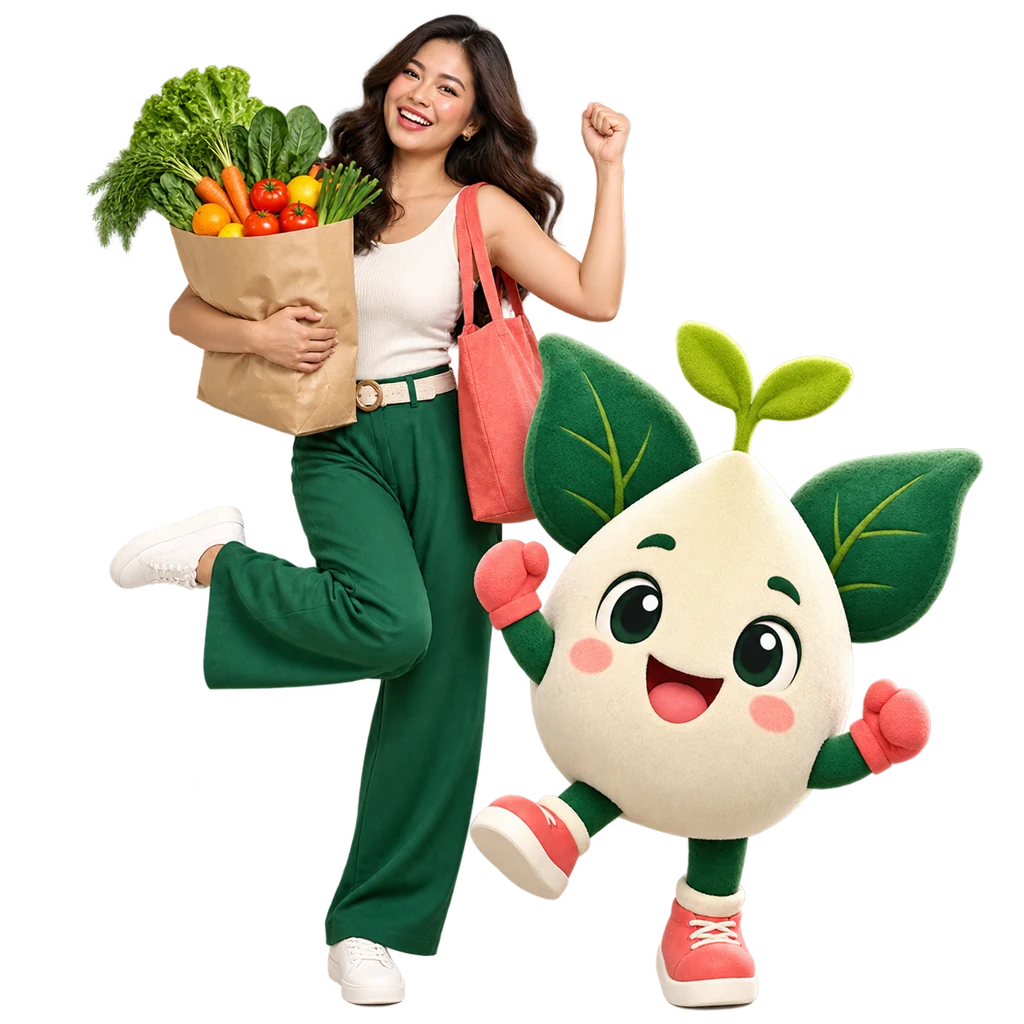
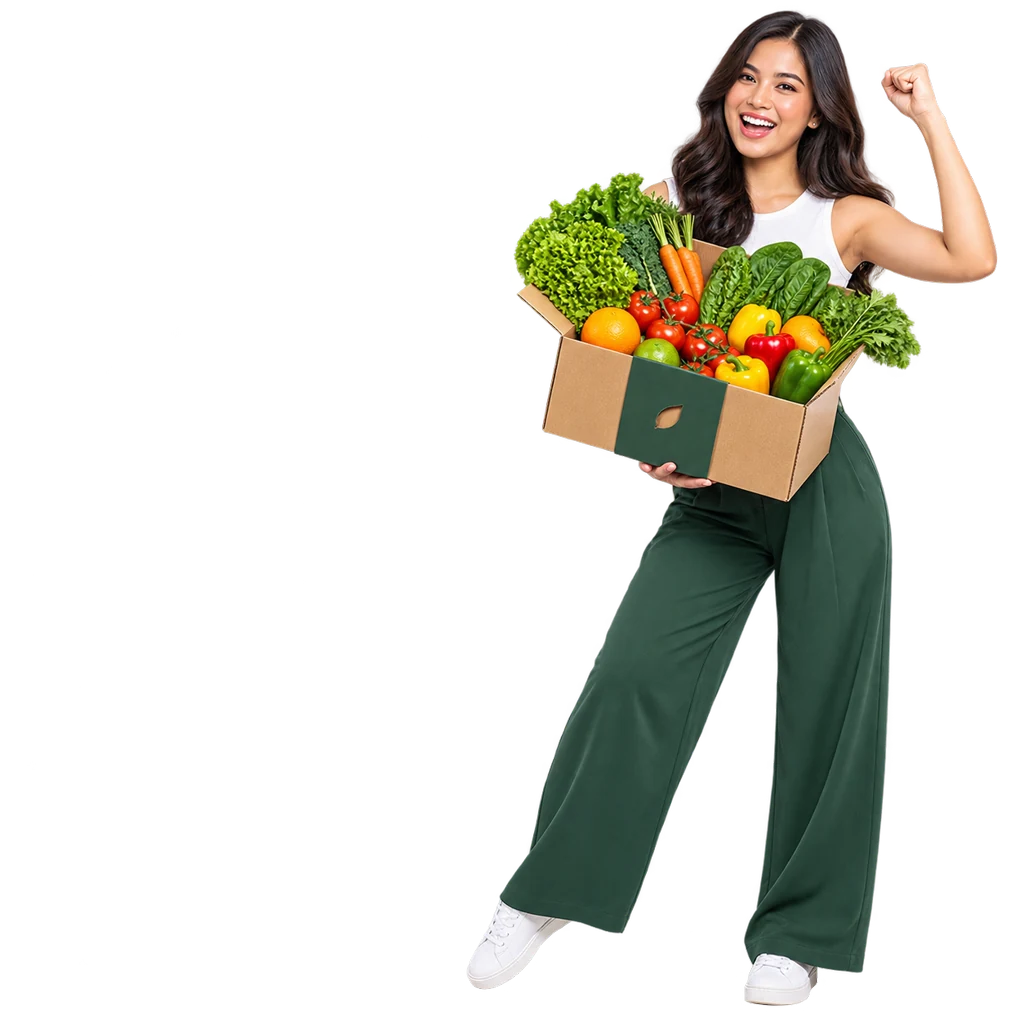
feat(featured-promotions): add campaign carousel

diff --git a/apps/web/src/features/catalog/customer-catalog.tsx b/apps/web/src/features/catalog/customer-catalog.tsx
@@ -615,11 +615,101 @@ function selectCollection(id: string) {
   window.location.assign(`/shop#${id}`);
 }
 
+const DEFAULT_FEATURED_CAMPAIGNS = [
+  {
+    id: "first-order",
+    eyebrow: "First order only",
+    headline: "40% off",
+    subheadline: "your first order",
+    ctaLabel: "Shop the offer",
+    href: "/shop?sort=popular",
+    imageUrl: "/marketplace/first-order-campaign.webp",
+    imageAlt: "A cheerful shopper presenting a box of fresh produce",
+    backgroundClassName: "bg-[#ff3f8f] text-white",
+    headlineClassName: "text-[#161616]",
+    mobileVeilClassName: "from-[#ff3f8f] via-[#ff3f8f]/95",
+    badgeClassName: "bg-[#143f31] text-white",
+    ctaClassName: "bg-[#fff8ed] text-[#163d30]",
+    imageClassName:
+      "-bottom-[5%] -right-[16%] w-[75%] sm:-right-[1%] sm:bottom-auto sm:top-[-5%] sm:w-[48%] lg:right-[2%] lg:w-[46%]",
+  },
+  {
+    id: "build-your-box",
+    eyebrow: "Pick every item",
+    headline: "Build your box",
+    subheadline: "your way",
+    ctaLabel: "Start choosing",
+    href: "/shop?sort=popular",
+    imageUrl: "/marketplace/build-your-box-campaign.webp",
+    imageAlt: "Hands packing a fresh produce box",
+    backgroundClassName: "bg-[#174b3a] text-white",
+    headlineClassName: "text-white",
+    mobileVeilClassName: "from-[#174b3a] via-[#174b3a]/95",
+    badgeClassName: "bg-[#f4cf63] text-[#143f31]",
+    ctaClassName: "bg-[#fff8ed] text-[#163d30]",
+    imageClassName:
+      "-bottom-[6%] -right-[20%] w-[82%] sm:-right-[4%] sm:bottom-auto sm:top-[-17%] sm:w-[58%] lg:right-[-1%] lg:w-[55%]",
+  },
+  {
+    id: "market-fresh",
+    eyebrow: "Farm-to-door favorites",
+    headline: "Market fresh",
+    subheadline: "every week",
+    ctaLabel: "See what's fresh",
+    href: "/shop?sort=newest",
+    imageUrl: "/marketplace/market-fresh-campaign.webp",
+    imageAlt: "A market grower holding a box of fresh produce",
+    backgroundClassName: "bg-[#ffad52] text-[#143f31]",
+    headlineClassName: "text-[#161616]",
+    mobileVeilClassName: "from-[#ffad52] via-[#ffad52]/95",
+    badgeClassName: "bg-[#143f31] text-white",
+    ctaClassName: "bg-white text-[#163d30]",
+    imageClassName:
+      "-bottom-[6%] -right-[17%] w-[73%] sm:-right-[1%] sm:bottom-auto sm:top-[-5%] sm:w-[47%] lg:right-[2%] lg:w-[45%]",
+  },
+  {
+    id: "weekend-delivery",
+    eyebrow: "Plan your weekend",
+    headline: "Weekend drops",
+    subheadline: "right on time",
+    ctaLabel: "Browse the market",
+    href: "/shop?sort=popular",
+    imageUrl: "/marketplace/weekend-delivery-campaign.webp",
+    imageAlt: "A bicycle courier carrying a produce delivery box",
+    backgroundClassName: "bg-[#9cd9eb] text-[#143f31]",
+    headlineClassName: "text-[#161616]",
+    mobileVeilClassName: "from-[#9cd9eb] via-[#9cd9eb]/95",
+    badgeClassName: "bg-[#143f31] text-white",
+    ctaClassName: "bg-white text-[#163d30]",
+    imageClassName:
+      "-bottom-[7%] -right-[21%] w-[81%] sm:-right-[2%] sm:bottom-auto sm:top-[-6%] sm:w-[50%] lg:right-[1%] lg:w-[47%]",
+  },
+  {
+    id: "free-month",
+    eyebrow: "New member trial",
+    headline: "One month free",
+    subheadline: "to get started",
+    ctaLabel: "Try a membership",
+    href: "/account/subscribe?returnTo=%2Fshop",
+    imageUrl: "/marketplace/free-month-campaign.webp",
+    imageAlt: "A couple happily unpacking a box of fresh produce",
+    backgroundClassName: "bg-[#7446a8] text-white",
+    headlineClassName: "text-white",
+    mobileVeilClassName: "from-[#7446a8] via-[#7446a8]/95",
+    badgeClassName: "bg-[#f4cf63] text-[#143f31]",
+    ctaClassName: "bg-[#fff8ed] text-[#163d30]",
+    imageClassName:
+      "-bottom-[6%] -right-[17%] w-[76%] sm:-right-[2%] sm:bottom-auto sm:top-[-4%] sm:w-[50%] lg:right-[1%] lg:w-[47%]",
+  },
+] as const;
+
 function MerchandisingRail({
   banners,
 }: Readonly<{
   banners: ActivePromotionBannersResponse["data"]["banners"];
 }>) {
+  const [activeCampaignIndex, setActiveCampaignIndex] = useState(0);
+
   if (banners.length) {
     return (
       <section
@@ -659,58 +749,119 @@ function MerchandisingRail({
     );
   }
 
+  const activeCampaign =
+    DEFAULT_FEATURED_CAMPAIGNS[activeCampaignIndex] ?? DEFAULT_FEATURED_CAMPAIGNS[0];
+
+  function showPreviousCampaign() {
+    setActiveCampaignIndex((current) =>
+      current === 0 ? DEFAULT_FEATURED_CAMPAIGNS.length - 1 : current - 1,
+    );
+  }
+
+  function showNextCampaign() {
+    setActiveCampaignIndex((current) => (current + 1) % DEFAULT_FEATURED_CAMPAIGNS.length);
+  }
+
   return (
-    <section aria-label="Featured offers" className="mb-10 scroll-mt-24" id="featured-offers">
+    <section
+      aria-label="Featured offers"
+      aria-roledescription="carousel"
+      className="mb-10 scroll-mt-24"
+      id="featured-offers"
+    >
       <a
-        className="group relative isolate flex min-h-[320px] overflow-hidden rounded-[28px] bg-[#ff3f8f] px-6 py-7 text-white shadow-[0_22px_60px_rgba(139,19,71,0.18)] sm:min-h-[330px] sm:items-center sm:px-10 sm:py-9 lg:px-14"
-        href="/shop?sort=popular"
+        aria-label={`${activeCampaign.headline} ${activeCampaign.subheadline}: ${activeCampaign.ctaLabel}`}
+        className={`group relative isolate flex min-h-[320px] overflow-hidden rounded-[28px] px-6 py-7 shadow-[0_22px_60px_rgba(21,61,48,0.17)] sm:min-h-[330px] sm:items-center sm:px-10 sm:py-9 lg:px-14 ${activeCampaign.backgroundClassName}`}
+        href={activeCampaign.href}
+        key={activeCampaign.id}
       >
         <span
           aria-hidden="true"
-          className="absolute -left-14 -top-20 size-52 rounded-full bg-[#ff87b8]/70 blur-sm"
+          className="absolute -left-14 -top-20 size-52 rounded-full bg-white/20 blur-sm"
         />
         <span
           aria-hidden="true"
-          className="absolute -bottom-28 left-[37%] size-72 rounded-full bg-[#ffc6dc]/55"
+          className="absolute -bottom-28 left-[37%] size-72 rounded-full bg-white/15"
         />
         <span
           aria-hidden="true"
-          className="absolute right-[8%] top-5 size-16 rounded-full border-[14px] border-[#ffb5d2]/55 transition-transform duration-300 group-hover:rotate-12"
+          className="absolute right-[8%] top-5 size-16 rounded-full border-[14px] border-white/20 transition-transform duration-300 group-hover:rotate-12"
         />
         <span
           aria-hidden="true"
-          className="absolute inset-y-0 left-0 z-[15] w-[68%] bg-gradient-to-r from-[#ff3f8f] via-[#ff3f8f]/95 to-transparent sm:hidden"
+          className={`absolute inset-y-0 left-0 z-[15] w-[72%] bg-gradient-to-r to-transparent sm:hidden ${activeCampaign.mobileVeilClassName}`}
         />
 
-        <div className="relative z-20 flex w-[61%] max-w-[520px] flex-col items-start sm:w-[52%]">
-          <span className="inline-flex rounded-full bg-[#143f31] px-3 py-1.5 text-[10px] font-extrabold uppercase tracking-[0.16em] text-white sm:text-xs">
-            First order only
+        <div className="relative z-20 flex w-[63%] max-w-[560px] flex-col items-start justify-center self-stretch sm:w-[54%]">
+          <span
+            className={`inline-flex rounded-full px-3 py-1.5 text-[10px] font-extrabold uppercase tracking-[0.16em] sm:text-xs ${activeCampaign.badgeClassName}`}
+          >
+            {activeCampaign.eyebrow}
           </span>
-          <h2 className="!m-0 mt-4 flex flex-col font-black tracking-[-0.055em] text-white">
-            <span className="text-[clamp(3.15rem,7vw,5.75rem)] leading-[0.82]">40% off</span>
-            <span className="mt-3 max-w-[10ch] text-[clamp(1.55rem,3.4vw,2.6rem)] leading-[0.92]">
-              your first
-              <br />
-              order
+          <h2
+            className={`!m-0 mt-4 flex flex-col font-black tracking-[-0.055em] ${activeCampaign.headlineClassName}`}
+          >
+            <span className="max-w-[9ch] text-[clamp(2.7rem,6.4vw,5.6rem)] leading-[0.82] text-inherit">
+              {activeCampaign.headline}
+            </span>
+            <span className="mt-3 max-w-[11ch] text-[clamp(1.45rem,3.2vw,2.55rem)] leading-[0.92] text-inherit">
+              {activeCampaign.subheadline}
             </span>
           </h2>
-          <p className="mt-4 max-w-[21ch] text-xs font-bold leading-5 text-[#102c24] sm:max-w-[32ch] sm:text-sm">
-            A bright welcome to the weekly market. Eligibility and savings are confirmed at
-            checkout.
-          </p>
-          <span className="mt-5 inline-flex items-center gap-1.5 rounded-full bg-[#fff8ed] px-4 py-2.5 text-xs font-extrabold text-[#163d30] shadow-sm transition-transform group-hover:translate-x-1 sm:px-5 sm:text-sm">
-            Shop the offer <ChevronRight size={16} />
+          <span
+            className={`mt-6 inline-flex items-center gap-1.5 rounded-full px-4 py-2.5 text-xs font-extrabold shadow-sm transition-transform group-hover:translate-x-1 sm:px-5 sm:text-sm ${activeCampaign.ctaClassName}`}
+          >
+            {activeCampaign.ctaLabel} <ChevronRight size={16} />
           </span>
         </div>
 
         <img
-          alt="A cheerful shopper holding fresh groceries beside Carbon's sprout mascot"
-          className="pointer-events-none absolute -bottom-[6%] -right-[15%] z-10 w-[74%] max-w-[570px] object-contain transition-transform duration-300 group-hover:scale-[1.025] sm:-right-[2%] sm:bottom-auto sm:top-[-5%] sm:w-[44%] lg:right-[2%] lg:w-[45%]"
+          alt={activeCampaign.imageAlt}
+          className={`pointer-events-none absolute z-10 max-w-[620px] object-contain transition-transform duration-300 group-hover:scale-[1.025] ${activeCampaign.imageClassName}`}
           height="1024"
-          src="/marketplace/first-order-campaign.webp"
+          src={activeCampaign.imageUrl}
           width="1024"
         />
       </a>
+
+      <div
+        className="mt-3 flex items-center justify-center gap-3"
+        role="group"
+        aria-label="Featured offer controls"
+      >
+        <button
+          aria-label="Previous featured offer"
+          className="grid size-9 place-items-center rounded-full border border-[#dce7e1] bg-white text-[#173f33] shadow-sm transition hover:border-[#9eb7aa] hover:bg-[#f5f8f6]"
+          onClick={showPreviousCampaign}
+          type="button"
+        >
+          <ChevronLeft aria-hidden="true" size={17} />
+        </button>
+        <div className="flex items-center gap-2">
+          {DEFAULT_FEATURED_CAMPAIGNS.map((campaign, index) => (
+            <button
+              aria-label={`Show featured offer ${index + 1}: ${campaign.headline}`}
+              aria-pressed={index === activeCampaignIndex}
+              className={`h-2.5 rounded-full transition-all ${
+                index === activeCampaignIndex
+                  ? "w-8 bg-[#173f33]"
+                  : "w-2.5 bg-[#cbd9d2] hover:bg-[#9eb7aa]"
+              }`}
+              key={campaign.id}
+              onClick={() => setActiveCampaignIndex(index)}
+              type="button"
+            />
+          ))}
+        </div>
+        <button
+          aria-label="Next featured offer"
+          className="grid size-9 place-items-center rounded-full border border-[#dce7e1] bg-white text-[#173f33] shadow-sm transition hover:border-[#9eb7aa] hover:bg-[#f5f8f6]"
+          onClick={showNextCampaign}
+          type="button"
+        >
+          <ChevronRight aria-hidden="true" size={17} />
+        </button>
+      </div>
     </section>
   );
 }

diff --git a/apps/web/e2e/cross-role.e2e.ts b/apps/web/e2e/cross-role.e2e.ts
@@ -76,13 +76,43 @@ test("marketplace converges across phone and desktop layouts", async ({
   await expect(page.getByRole("dialog", { name: "Cart orders" })).toBeVisible();
   await page.keyboard.press("Escape");
   await expect(page.getByRole("dialog", { name: "Cart orders" })).toHaveCount(0);
-  await expect(page.getByRole("region", { name: "Featured offers" })).toBeVisible();
-  const firstOrderOffer = page.getByRole("link", { name: /40% off your first order/ });
-  await expect(firstOrderOffer).toBeVisible();
-  await expect(firstOrderOffer.getByRole("img")).toHaveAttribute(
-    "src",
-    "/marketplace/first-order-campaign.webp",
-  );
+  const featuredOffers = page.getByRole("region", { name: "Featured offers" });
+  await expect(featuredOffers).toBeVisible();
+  const campaigns = [
+    {
+      button: "Show featured offer 1: 40% off",
+      name: /40% off your first order/,
+      image: "/marketplace/first-order-campaign.webp",
+    },
+    {
+      button: "Show featured offer 2: Build your box",
+      name: /Build your box your way/,
+      image: "/marketplace/build-your-box-campaign.webp",
+    },
+    {
+      button: "Show featured offer 3: Market fresh",
+      name: /Market fresh every week/,
+      image: "/marketplace/market-fresh-campaign.webp",
+    },
+    {
+      button: "Show featured offer 4: Weekend drops",
+      name: /Weekend drops right on time/,
+      image: "/marketplace/weekend-delivery-campaign.webp",
+    },
+    {
+      button: "Show featured offer 5: One month free",
+      name: /One month free to get started/,
+      image: "/marketplace/free-month-campaign.webp",
+    },
+  ] as const;
+  await expect(featuredOffers.getByRole("button", { name: /Show featured offer/ })).toHaveCount(5);
+  for (const campaign of campaigns) {
+    await featuredOffers.getByRole("button", { name: campaign.button }).click();
+    const activeOffer = featuredOffers.getByRole("link", { name: campaign.name });
+    await expect(activeOffer).toBeVisible();
+    await expect(activeOffer.getByRole("img")).toHaveAttribute("src", campaign.image);
+  }
+  await expect(page.getByText("A bright welcome to the weekly market.")).toHaveCount(0);
   await expect(page.getByText("Crave it? Get it.")).toHaveCount(0);
   await expect(page.getByPlaceholder("Search for vegetables, healthy food, or a dish")).toHaveCount(
     0,

diff --git a/docs/implementation-backlog.md b/docs/implementation-backlog.md
@@ -688,16 +688,18 @@ authentication and promotion remain deferred.
   pushed to `origin/main`. The remaining unstaged files are unrelated pre-existing fixture,
   generated typing, Playwright, and asset changes.
 
-- **Featured-promotion visual refinement:** the empty-banner fallback on `/shop` is now one wide,
-  responsive pink campaign card with prominent first-order copy, a crisp HTML CTA, and an original
-  Carbon sprout mascot and shopper cutout. The generated transparent artwork is stored as an
-  optimized 1024-by-1024 WebP at `apps/web/public/marketplace/first-order-campaign.webp`; no external
-  logo, mascot, packaging, or runtime dependency was introduced. Active server-returned promotion
-  banners still take precedence, and the fallback states that eligibility and savings are confirmed
-  at checkout. Live local browser checks at 1280-by-720 and 390-by-844 show no document overflow;
-  focused marketplace Playwright passes 3/3 across phone, tablet, and desktop with Axe
-  serious/critical checks and the asset/offer assertions, and `pnpm check` passes all 55 Turbo
-  tasks. The change adds no request, persistence, latency, or observability boundary.
+- **Featured-promotion visual refinement:** the empty-banner fallback on `/shop` is now a five-slide,
+  manually controlled campaign carousel with oversized HTML copy, previous/next controls, and five
+  direct-select indicators. The first-order artwork replaces the former mascot and shopping bags
+  with a sturdy produce delivery box, and the former welcome/eligibility paragraph is removed. Four
+  additional original, text-free box campaigns cover build-your-own selection, weekly market
+  freshness, weekend delivery, and the membership trial. All five ImageGen cutouts are optimized
+  1024-by-1024 transparent WebPs under `apps/web/public/marketplace`; active server-returned
+  promotion banners still take precedence. Live local browser review covers all five desktop slides
+  plus the 390-by-844 phone composition. Focused marketplace Playwright passes 3/3 across phone,
+  tablet, and desktop with all five selector/asset assertions, serious/critical Axe checks, and
+  overflow checks; `pnpm check` passes all 55 Turbo tasks. The change adds no request, persistence,
+  latency, runtime dependency, or observability boundary.
 
 - **Marketplace search simplification:** the duplicate in-content `Crave it? Get it.` heading and
   secondary search form are removed from `/shop`, so category filters and the featured campaign now
